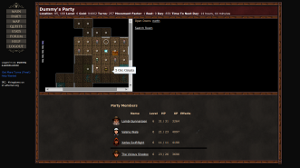
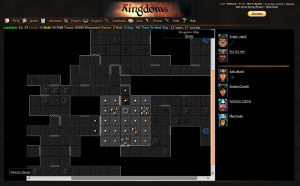
Tweaks to login screen and screenshots

diff --git a/root/player/login.html b/root/player/login.html
@@ -28,28 +28,27 @@ function displaySizeWarning() {
 
 dojo.addOnLoad( displaySizeWarning );
 
+var shotDescs = {
+	1: 'The Main Screen',
+	2: "A charater's screen - mouse over an item to see its stats",
+	3: "An Equipment Shop - drag an item onto a character's name to buy it",
+	4: "Combat - cast a spell by selecting it from the action menu",
+	7: "Constructing a new building",
+	8: "Exploring a dungeon",
+};
+
+function showShot(shotId) {
+	dojo.byId('screeshot-view').style.visibility = 'visible';
+	dojo.byId('shot-img').src = "[% c.config.static_path %]/images/shots/" + shotId + ".png";
+	dojo.byId('shot-desc').innerHTML = shotDescs[shotId];
+}
+
+function closeShotScreen() {
+	dojo.byId('screeshot-view').style.visibility = 'hidden';
+}
+
 </script>
 
-<h1>Welcome to Kingdoms</h1>
-
-<p>Kingdoms is an online "persistent world" role-playing game. It's 100% web-based, meaning there's no download, Flash, Silverlight, etc. And it's free!</p>
-
-<p>In Kingdoms, you control a party of characters, adventuring around a grid-based world, discovering new towns, exploring dungeons, fighting all manner of
-foul creatures, and much more. For more on the game, see the <a href="[% base %]/player/about">About</a> page or check out some 
-<a href="[% base %]/player/screenshots">Screenshots</a>.</p>
-
-<p>Kingdoms is currently in "pre-beta", meaning that - while it's playable - many of the planned features are missing. The <a href="[% base %]/player/about">About</a>
-page has more info on the pre-beta.</p>
-
-<div align="center">
-<a href="[% c.config.static_path %]/images/shots/2.png"><img src="[% c.config.static_path %]/images/shots/2t.png" border="0" style="border: 1px solid white"></a>
-<a href="[% c.config.static_path %]/images/shots/1.png"><img src="[% c.config.static_path %]/images/shots/1t.png" border="0" style="border: 1px solid white"></a>
-<br>
-<a href="[% base %]/player/screenshots">More Screenshots</a>
-</div>
-
-<br style="clear:both">
-<div class="line-sep"></div>
 
 <div dojoType="dijit.Dialog" id="ie-diag" style="display: none" title="Internet Explorer 7 Limitations">
     It seems like you're using Internet Explorer 7 or earlier.
@@ -79,36 +78,111 @@ page has more info on the pre-beta.</p>
 	</div>
 </div>
 
-<div align="center">
-<form method="POST" action="[% base %]/player/login">
-<table>
-	<tr><td colspan=2><h2>Login To Kingdoms</h2></td></tr>
-	<tr>
-		<td nowrap>Email Address:</td>
-		<td><input type="text" name="email" style="width: 300px"></td>
-	</tr>
-	<tr>
-		<td>Password:</td>
-		<td><input type="password" name="password" style="width: 300px"></td>
-	</tr>
-	<tr>
-		<td></td>
-		<td><input type="submit" value="Login"></td>
-	</tr>
-</table>
-</form>
+<div id="login-content" style="position: relative;">
+
+<div style="float: right;">
+	<div style="background: black; border: 2px solid #4d4d4d; margin: 2px">
+		<form method="POST" action="[% base %]/player/login">
+		<table>
+			<tr><td colspan=2><h2>Login To Kingdoms</h2></td></tr>
+			<tr>
+				<td nowrap>Email Address:</td>
+				<td><input type="text" name="email" style="width: 300px"></td>
+			</tr>
+			<tr>
+				<td>Password:</td>
+				<td><input type="password" name="password" style="width: 300px"></td>
+			</tr>
+			<tr>
+				<td></td>
+				<td><input type="submit" value="Login"></td>
+			</tr>
+		</table>
+		</form>
+		
+		<table class="main" align="center">
+			<tr>
+				<td align="right">Don't have an account? <strong><a href="[% base %]/player/register">Register</a></strong></td>
+				<td>|</td>
+				<td>Forgot Your Password? <strong><a href="[% base %]/player/forgot_password">Reset Password</a></strong></td>
+			</tr>
+			<tr>
+				<td align="right">Got a verification code? <strong><a href="[% base %]/player/verify">Verify</a></strong></td>
+				<td>|</td>
+				<td>Need a new code? <strong><a href="[% base %]/player/reverify">Re-verify</a></strong></td>
+			</tr>
+		</table>
+	</div>
+
+
+	<div style="background: black; border: 2px solid #4d4d4d; margin: 2px">
+		<h2>Screenshots</h2>
+	
+		<div style="text-align: center">
+		<a href="#" onClick="showShot(1)"><img src="[% c.config.static_path %]/images/shots/1t.png" border="0"></a>
+		<a href="#" onClick="showShot(2)"><img src="[% c.config.static_path %]/images/shots/2t.png" border="0"></a>
+		<br>
+		<a href="#" onClick="showShot(3)">More Screenshots</a>
+		</div>
+	</div>
+
 </div>
 
-<table class="main" align="center">
-	<tr>
-		<td align="right">Don't have an account? <strong><a href="[% base %]/player/register">Register</a></strong></td>
-		<td>|</td>
-		<td>Forgot Your Password? <strong><a href="[% base %]/player/forgot_password">Reset Password</a></strong></td>
-	</tr>
-	<tr>
-		<td align="right">Got a verification code? <strong><a href="[% base %]/player/verify">Verify</a></strong></td>
-		<td>|</td>
-		<td>Need a new code? <strong><a href="[% base %]/player/reverify">Re-verify</a></strong></td>
-	</tr>
-</table>
+<div style="height: 450px">
+
+<h1>Welcome to Kingdoms</h1>
+
+<p>Kingdoms is an online "persistent world" role-playing game. It's 100% web-based, meaning there's no download, Flash, Silverlight, etc. And it's free!</p>
+
+<p>In Kingdoms, you control a party of characters, adventuring around a grid-based world, discovering new towns, exploring dungeons, fighting all manner of
+foul creatures, and much more. For more on the game, see the <a href="[% base %]/player/about">About</a> page or check out some 
+<a href="#" onClick="showShot(1)">Screenshots</a>.</p>
+
+<p>Kingdoms is currently in "pre-beta", meaning that - while it's playable - many of the planned features are missing. The <a href="[% base %]/player/about">About</a>
+page has more info on the pre-beta.</p>
+
+<h2>Features</h2>
+
+<ul>
+	<li>Dynamic, graphical, grid-based world to explore</li>
+	<li>Hoards of monsters to fight</li>
+	<li>Thousands of unique items to find</li>
+	<li>Dungeons that appear and disappear over time</li>
+	<li>Begin with 5 characters, but recruit more (or sell your old ones) as you need to</li>
+	<li>Shape the world yourself by seizing control of towns, becoming mayor, setting taxes, buying defences, and much more</li>
+	<li>For the ultimate in power, form your own Kingdom, and play politics against the other kings and queens of the realm</li> 
+	<li>Much more - you'll have to play the game to discover everything!</li>
+</ul>
+
+</div>
+
+
+<div id="screeshot-view" style="position: fixed; left: 50%; top: 50%; margin-left: -400px; margin-top: -250px; min-width: 800px; height: 550px; visibility: hidden; 
+	border: 2px solid #4d4d4d; background: black">
+	
+	<div style="float: right; margin-right: 25px">
+	<div id="screen-close" style="position: fixed; padding: 2px">
+		<a href="#" onclick="closeShotScreen()"><span class="close-icon"></span></a>
+	</div>	
+	</div>
+	
+	<div id="shot">	
+		<img id="shot-img" src="[% c.config.static_path %]/images/layout/loader.gif">
+	</div>
+	
+	<div id="shot-desc" style="text-align: center; font-style:italic;">
+	</div>
+	
+	<br>
+	
+	<div style="text-align: center; position: absolute; margin: 0 auto; width: 100%; bottom: 15px;">
+	More Screenshots:
+	[% FOREACH shot IN [1,2,3,4,7,8] %]
+		<a href="#" onClick="showShot([% shot %])">#[% loop.count %]</a>&nbsp;
+	[% END %]
+	</div>
+</div>
+
+</div>
+
 [% INCLUDE bottom.html %]

diff --git a/root/player/about.html b/root/player/about.html
@@ -15,8 +15,6 @@
 <p>Here's a brief explanation of what the game is - but the best way to find out what it's about is to dive right in... Click <a href="[% base %]/player/register">here</a>
 to register.</p>
 
-<p>(Note, as Kingdoms is currently in <a href="#pre-beta">pre-beta</a>, a few of the features below haven't been released yet - but expect to see them over the coming months).</p>
-
 <p>Kingdoms is a "persistent world" role-playing game, where you control a party of characters, exploring a dynamic world, battling creatures, completing
 quests, discovering dungeons, and interacting with other parties.</p>
 
@@ -35,6 +33,8 @@ a couple of days, meaning you don't have to log in every day.</p>
 
 <a name="pre-beta"></a><h2>Pre-beta</h2>
 
+<p>Kingdoms is currently in "pre-beta".</p>
+
 <p>What's a pre-beta? Isn't that just an alpha? (I hear you ask).</p>
 
 <p>Well, maybe.... when a game goes into "beta", it usually means it's pretty much finished, and all that's left is some final tweaking and bug fixing. In the
@@ -45,9 +45,6 @@ The idea is to get as much feedback as possible from players, improving as we go
 <p>During the pre-beta, you can usually expect to see about one release a month. Each release usually contains one
 major new feature, plus several minor ones (and some bug fixes of course). So you can expect to see the game changing and improving constantly, and have a chance
 to contribute feedback, or even make suggestions for features to be included.</p>
-
-<p>So when will it be finished? It's hard to say exactly, and maybe it'll never be completely finished. But as far as the major "core" of the game, we'd estimate
-that it's roughly 60% done. So there's a lot more to come!</p>
 
 <a name="credits"></a><h2>Credits</h2>
 

diff --git a/root/top.html b/root/top.html
@@ -52,17 +52,21 @@ function show_message(message) {
 
 <div style="width: 100%">
 	<div class="login-info" style="text-align: center">
-	[% IF c.session.player.player_name %]
+	[% IF main_screen %]
 		User: <b>[% c.session.player.player_name %]</b> /
 		Party: <b>[% party.name %]</b> /
-		<span id="online_parties-pane" dojoType="dijit.layout.ContentPane" style="display: inline"></span>		
-		<a href="player/logout">Logout</a> 
+		<span id="online_parties-pane" dojoType="dijit.layout.ContentPane" style="display: inline"></span>
+	[% END %]
+	[% IF c.session.player %]		
+		<a href="[% base %]player/logout">Logout</a>
+	[% END %]
+	[% IF main_screen %] 
 		<br>
 		<a href="javascript:closeScreen(); getPanels('party/reward_links')">Get More Turns (Free!)</a> /
 		<a href="http://forum.kingdoms-game.com/chat/" target="_new">Web Chat</a>		
 	[% END %]	
 	<br><br>
-	<a href="[% IF c.session.player.player_name %]javascript:loadScreen('donate')[% ELSE %][% base %]donate[% END %]">
+	<a href="[% IF main_screen %]javascript:loadScreen('donate')[% ELSE %][% base %]donate[% END %]">
 		<img src="/static/images/donate.gif" border="0">
 	</a>		
 	</div>

diff --git a/root/party/main.html b/root/party/main.html
@@ -1,4 +1,4 @@
-[% INCLUDE top.html %]
+[% INCLUDE top.html main_screen = 1 %]
 
 <script>
 function init() {
